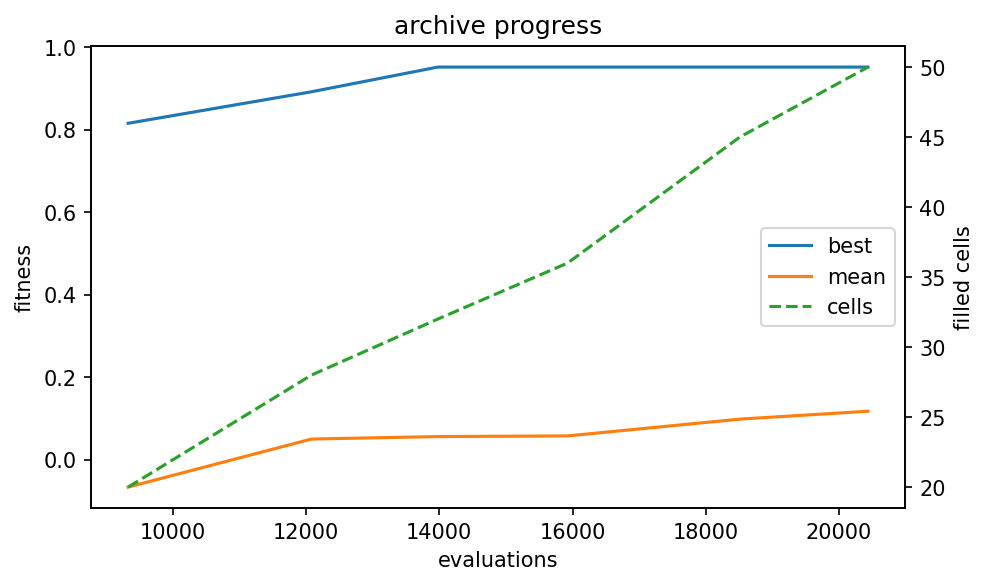
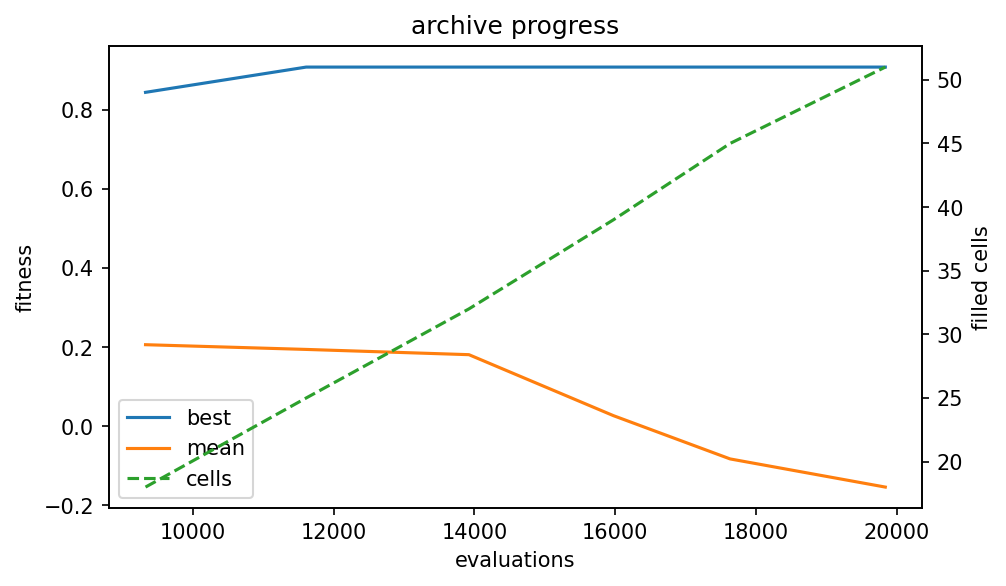
Baseline results with the cost-of-transport archive; archive plot skips unbuildable elites

diff --git a/experiments/plot_archive.py b/experiments/plot_archive.py
@@ -13,6 +13,7 @@ import pickle
 
 import numpy as np
 
+from darwinbot.fitness import UNSTABLE_SCORE
 from darwinbot.sim import HEIGHT_MAX
 
 
@@ -28,7 +29,10 @@ def heatmap(archive):
 
     if not archive.cells:
         raise SystemExit("archive has no elites to plot")
-    elites = list(archive.cells.values())
+    # unbuildable bodies (UNSTABLE_SCORE) are not robots and squash the scale
+    elites = [e for e in archive.cells.values() if e.fitness > UNSTABLE_SCORE]
+    if not elites:
+        raise SystemExit("archive has no buildable elites to plot")
     duty, height, servos, wheel, cot = np.array([e.behaviour for e in elites]).T
     fits = np.array([e.fitness for e in elites])
 

diff --git a/README.md b/README.md
@@ -373,42 +373,41 @@ fitness = 0.7 * mean(scores) + 0.3 * min(scores)
 ## Results
 
 A short run on a 4-core laptop (`--terrains terrain --batches 5 --workers 3`,
-about 20,000 episodes in 2 hours) filled 50 of the ~300 cells:
+about 20,000 episodes in 2 h 20 min) filled 51 of the ~500 cells:
 
 | Gait | Types | Best fitness |
 |------|-------|--------------|
-| `roll` | 18 | 0.95 |
-| `trot` | 20 | 0.39 |
-| `belly` | 6 | 0.09 |
-| `walk` | 3 | 0.01 |
-| `crawl` | 3 | 0.02 |
+| `roll` | 13 | 0.91 |
+| `trot` | 17 | 0.25 |
+| `walk` | 7 | 0.23 |
+| `belly` | 10 | 0.01 |
+| `crawl` | 4 | 0.04 |
 
-Servo counts go from 1 to 16 and the bodies are often asymmetric: wheeled
-quadrupeds, a tilted body that rolls on one side wheel, long-legged spiders.
-25 types move forward (fitness above 0.05), 8 of them with legs carrying most
-of the ground contact. The best of those, `13servos-low-trot`, loses 1% on
-randomised physics in `validate.py` (PASS) and exports as 13 servos and 41
-printed parts. Wheels still win on speed, by a factor of about 2.4. The
-filled-cell count was still rising linearly when the run stopped, so longer
-runs should find more.
+Servo counts go from 1 to 16 and the bodies are often asymmetric. 21 types move
+forward (fitness above 0.05), 8 of them with legs carrying most of the ground
+contact. The best of those, `14servos-low-trot`, keeps its distance on
+randomised physics in `validate.py` (PASS) and exports as 14 servos and 40
+printed parts. Wheels win on speed by a factor of about 3.6 and on efficiency
+too: the most efficient roller has a cost of transport of 0.5, the most
+efficient walker 4.1. The cost-of-transport axis keeps walkers that are slow
+but cheap in the archive next to fast rollers (right panel of the map below).
 
-Compared with the earlier version (bodies built from 1 to 3 mirrored leg pairs,
-archive laid out by body shape, single-sine open-loop controller), trained on
-the same terrains for a similar number of batches:
+How the versions compare, each trained on the same terrains for 6 batches:
 
-| | Earlier version | Current version |
-|---|---|---|
-| Robot types in the archive | 20 | 50 |
-| Types that move forward (fitness above 0.05) | 14 | 25 |
-| Unbuildable elites (overlapping parts) | 5 | 1 |
-| Body plans | symmetric, 2 to 6 legs | trees, often asymmetric |
-| Servo counts | 4 to 22 | 1 to 16 |
-| Best rolling robot | 1.27 | 0.95 |
-| Best legged robot | 0.40 | 0.39 |
-| Wheels / legs ratio | 3.2 | 2.4 |
+| | Leg pairs | Tree bodies | Tree bodies + cost of transport (current) |
+|---|---|---|---|
+| Archive | body shape grid | ~300 cells, 3 descriptors | ~500 cells, 4 descriptors |
+| Robot types | 20 | 50 | 51 |
+| Types that move forward | 14 | 25 | 21 |
+| Unbuildable elites | 5 | 1 | 3 |
+| Servo counts | 4 to 22 | 1 to 16 | 1 to 16 |
+| Best rolling robot | 1.27 | 0.95 | 0.91 |
+| Best legged robot | 0.40 | 0.39 | 0.25 |
 
-The new version trades a little top speed for variety: two and a half times
-as many robot types, with legs closer to wheels.
+Tree bodies brought two and a half times as many robot types. The fourth
+descriptor spreads the same number of evaluations over more cells, so in a
+short run each cell gets fewer improvements and the best legged robot is
+slower; longer runs should close that gap.
 
 ![Evolved body plans](docs/img/robots.png)
 
